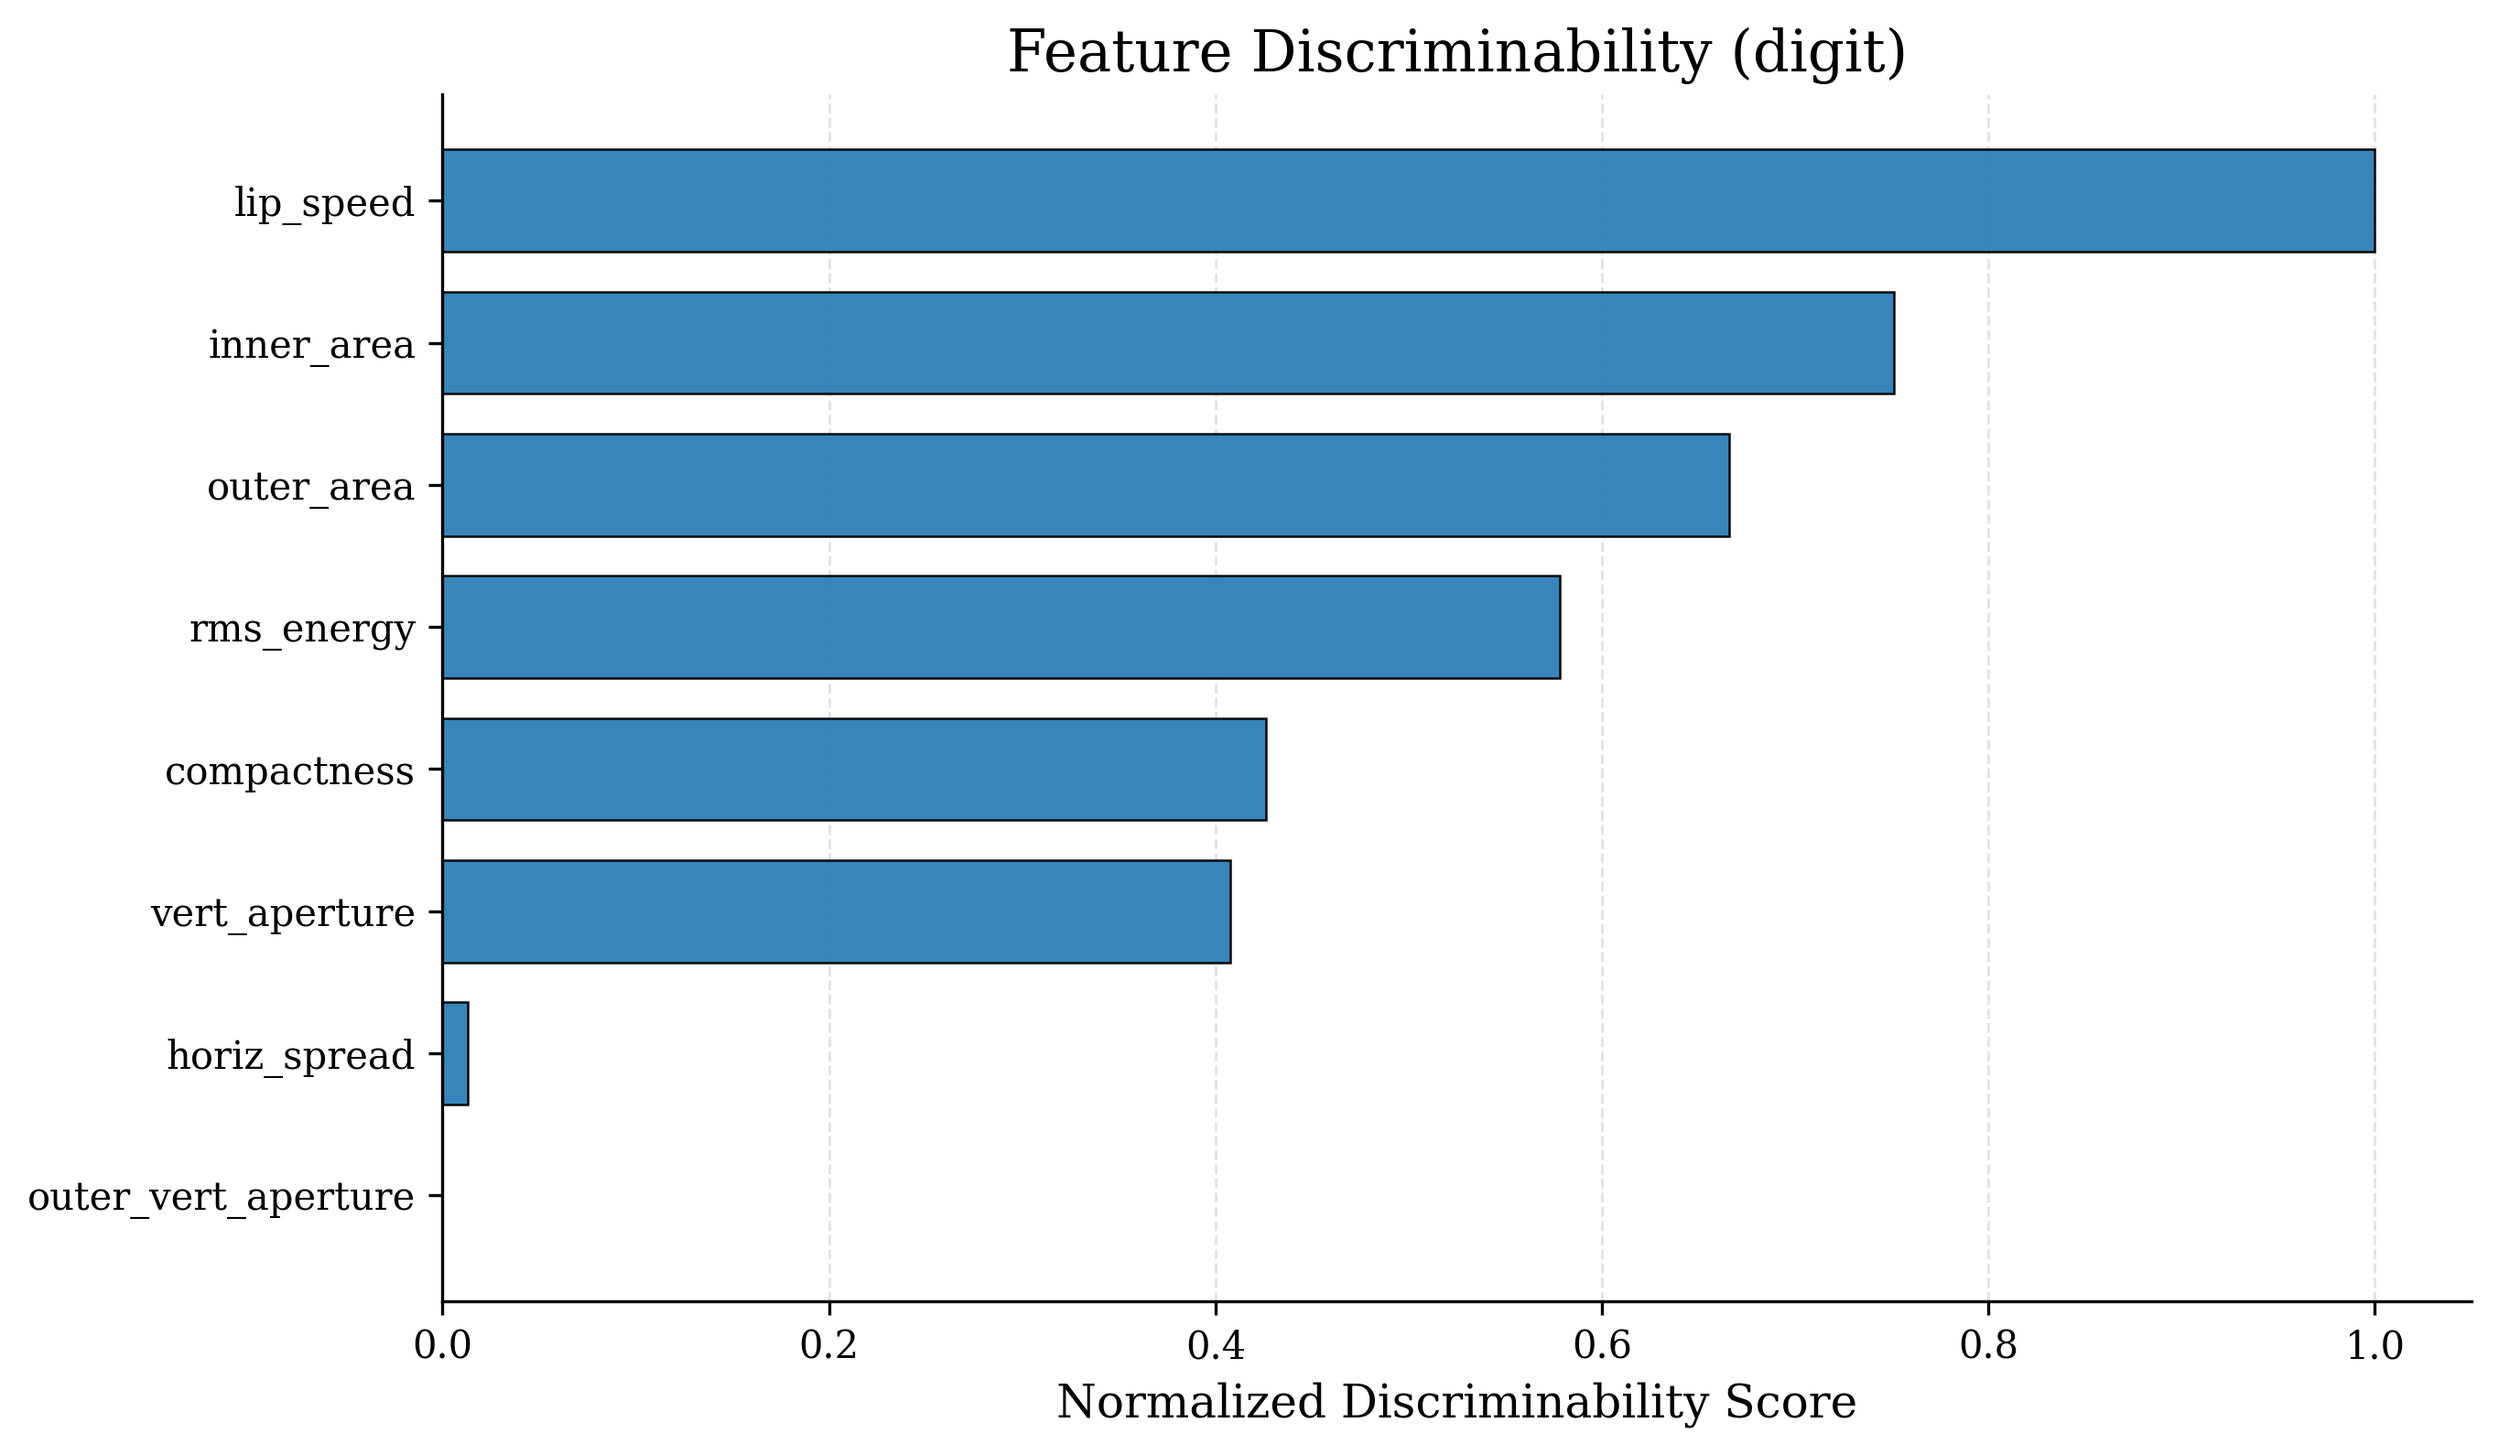
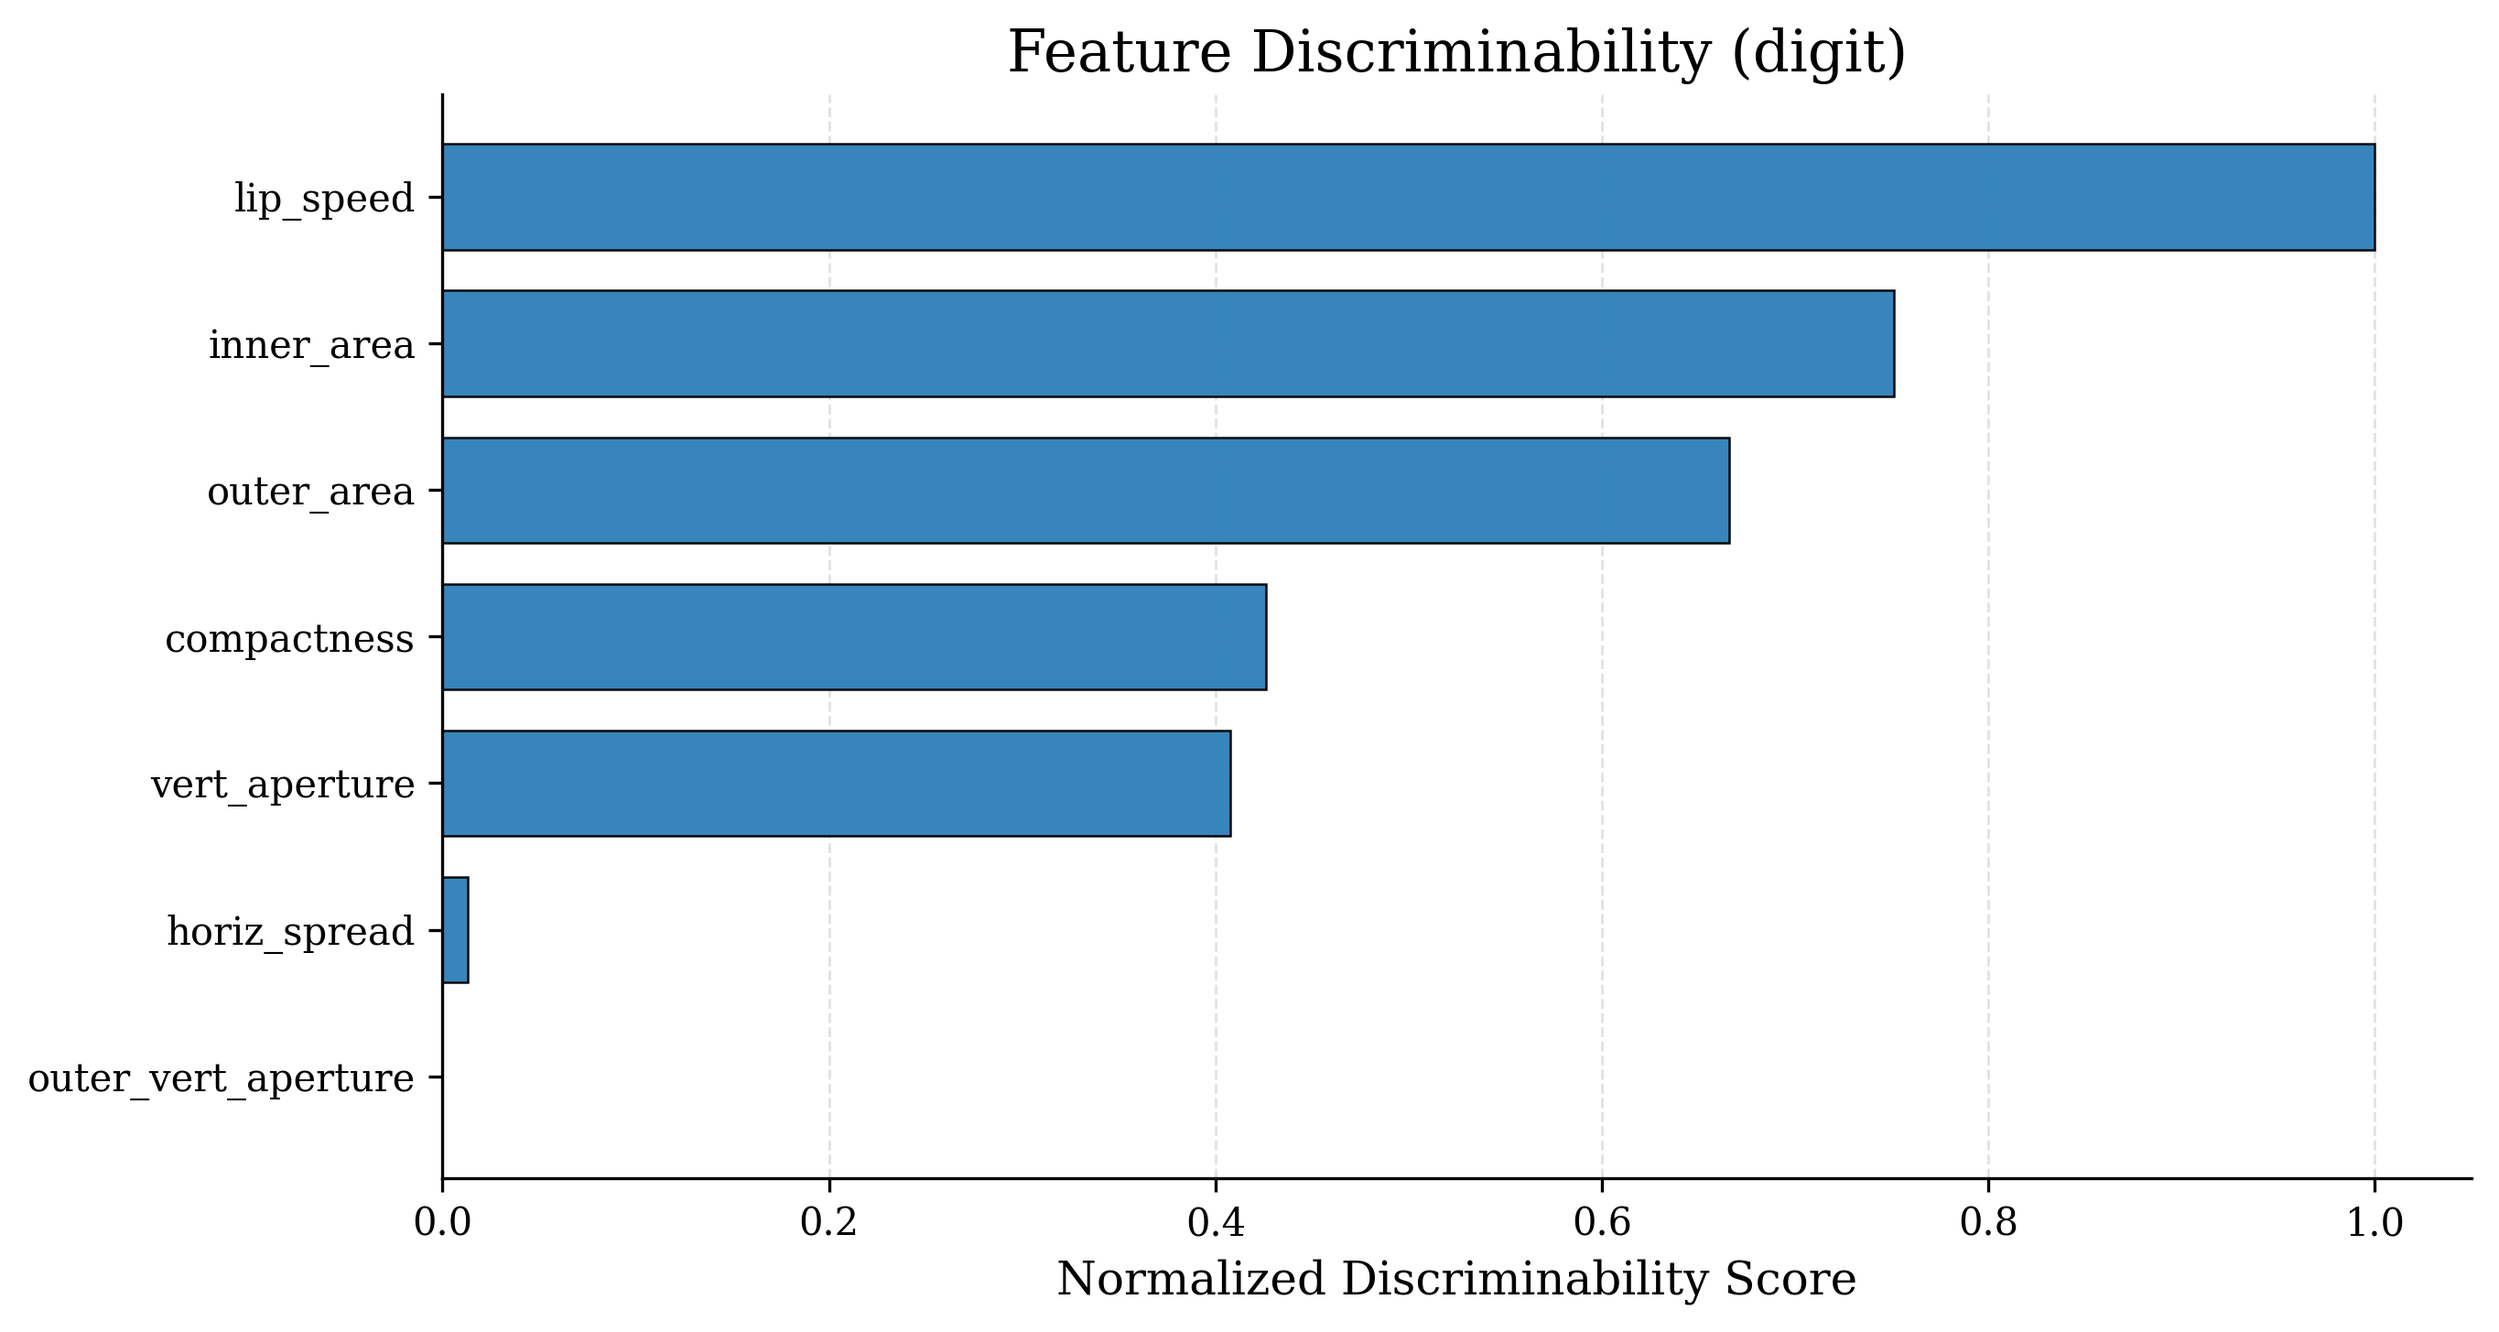
FDR

diff --git a/feature_discriminability.py b/feature_discriminability.py
@@ -34,7 +34,7 @@ DEVICE = torch.device('cuda' if torch.cuda.is_available() else
 # 1. Fisher Discriminant Ratio
 # ---------------------------------------------------------------------------
 
-def fisher_discriminant_ratio(segments_by_digit):
+def fisher_discriminant_ratio(segments_by_digit, n_features=None):
     """
     For each feature, compute FDR = between-class variance / within-class variance.
     segments_by_digit: dict {digit_idx: list of (T, N_FEATURES) arrays}
@@ -49,10 +49,18 @@ def fisher_discriminant_ratio(segments_by_digit):
     for d in all_classes:
         segs = segments_by_digit[d]
         # Summarise each segment by temporal mean only: (N, N_FEATURES)
-        X = np.stack([s.mean(axis=0) for s in segs])   # (N, N_FEATURES)
+        rows = [_segment_to_feature_vector(s, target_dim=n_features) for s in segs]
+        rows = [r for r in rows if r.size > 0]
+        if not rows:
+            continue
+        X = np.stack(rows)   # (N, N_FEATURES)
         class_means[d]  = X.mean(axis=0)
         class_vars[d]   = X.var(axis=0)
         class_counts[d] = len(X)
+
+    all_classes = [d for d in all_classes if d in class_counts]
+    if not all_classes:
+        raise RuntimeError('No valid segments were found to compute Fisher Discriminant Ratio.')
 
     n_total = sum(class_counts.values())
     global_mean = sum(class_counts[d] * class_means[d] for d in all_classes) / n_total
@@ -64,6 +72,33 @@ def fisher_discriminant_ratio(segments_by_digit):
 
     fdr = between / (within + 1e-12)
     return fdr   # (N_FEATURES,)
+
+
+def _adapt_np_feature_dim(x, target_dim):
+    """Slice or zero-pad the last axis of a NumPy array to target_dim."""
+    x = np.asarray(x)
+    current_dim = x.shape[-1]
+    if current_dim == target_dim:
+        return x
+    if current_dim > target_dim:
+        return x[..., :target_dim]
+    pad_shape = list(x.shape)
+    pad_shape[-1] = target_dim - current_dim
+    pad = np.zeros(pad_shape, dtype=x.dtype)
+    return np.concatenate([x, pad], axis=-1)
+
+
+def _segment_to_feature_vector(segment, target_dim=None):
+    """Convert a segment to a 1D feature vector, optionally adapting width."""
+    arr = np.asarray(segment)
+    if arr.ndim == 1:
+        vec = arr
+    else:
+        vec = arr.mean(axis=0)
+    vec = np.asarray(vec).reshape(-1)
+    if target_dim is not None:
+        vec = _adapt_np_feature_dim(vec, target_dim)
+    return vec
 
 
 # ---------------------------------------------------------------------------
@@ -79,7 +114,17 @@ def mutual_information(segments_by_digit, n_features):
     X_rows, y_rows = [], []
     for digit, segs in sorted(segments_by_digit.items()):
         for s in segs:
-            row = np.concatenate([s.mean(axis=0), s.std(axis=0)])  # (2*N_FEATURES,)
+            arr = np.asarray(s)
+            if arr.ndim == 1:
+                mean_v = np.asarray(arr).reshape(-1)
+                std_v = np.zeros_like(mean_v)
+            else:
+                mean_v = np.asarray(arr.mean(axis=0)).reshape(-1)
+                std_v = np.asarray(arr.std(axis=0)).reshape(-1)
+
+            mean_v = _adapt_np_feature_dim(mean_v, n_features)
+            std_v = _adapt_np_feature_dim(std_v, n_features)
+            row = np.concatenate([mean_v, std_v])  # (2*N_FEATURES,)
             X_rows.append(row)
             y_rows.append(digit)
 
@@ -395,7 +440,7 @@ if __name__ == '__main__':
     n_segs = sum(len(v) for v in by_digit.values())
     print(f"  {n_segs} digit segments across {n_classes} classes")
 
-    fdr = fisher_discriminant_ratio(by_digit)
+    fdr = fisher_discriminant_ratio(by_digit, n_features=n_features)
     print_ranking(fdr, feature_names, "Fisher Discriminant Ratio (higher = more separable)")
 
     mi = mutual_information(by_digit, n_features)
@@ -495,16 +540,24 @@ if __name__ == '__main__':
 
     plot_dir = os.path.join(args.plot_root, args.dataset)
     saved_paths = []
-    for metric_name, metric_scores in scores_for_plot.items():
-        p = plot_single_metric_bar(
-            feature_names=feature_names,
-            scores=metric_scores,
-            metric_name=metric_name,
-            output_dir=plot_dir,
-            dataset=args.dataset,
-            top_k=args.plot_top_k,
-        )
-        saved_paths.append(p)
+for metric_name, metric_scores in scores_for_plot.items():
+    names_for_plot = feature_names
+    scores_for_plot_this_metric = metric_scores
+
+    if metric_name == 'Fisher Ratio':
+        keep_idx = [i for i, n in enumerate(feature_names) if n != 'rms_energy']
+        names_for_plot = [feature_names[i] for i in keep_idx]
+        scores_for_plot_this_metric = np.asarray(metric_scores)[keep_idx]
+
+    p = plot_single_metric_bar(
+        feature_names=names_for_plot,
+        scores=scores_for_plot_this_metric,
+        metric_name=metric_name,
+        output_dir=plot_dir,
+        dataset=args.dataset,
+        top_k=args.plot_top_k,
+    )
+    saved_paths.append(p)
 
     print("\nSaved publication-style charts:")
     for p in saved_paths:

diff --git a/visualize_data.py b/visualize_data.py
@@ -33,6 +33,22 @@ def get_feature_names(data, n_features):
     return [prettify_feature_name(n) for n in DEFAULT_FEATURE_NAMES[:n_features]]
 
 
+def get_plot_feature_selection(data, n_features, exclude_names=None):
+    """Return (indices, pretty_names) for features to visualize."""
+    if exclude_names is None:
+        exclude_names = set()
+    exclude_names = {str(n).strip().lower() for n in exclude_names}
+
+    if 'feature_names' in data:
+        raw_names = [str(n) for n in data['feature_names'].tolist()[:n_features]]
+    else:
+        raw_names = DEFAULT_FEATURE_NAMES[:n_features]
+
+    indices = [i for i, name in enumerate(raw_names) if str(name).strip().lower() not in exclude_names]
+    names = [prettify_feature_name(raw_names[i]) for i in indices]
+    return indices, names
+
+
 def plot_sample(
     full_features,
     token_segments,
@@ -124,7 +140,7 @@ def plot_token_segments_grid(token_segments, token_sequence, speaker, video_id, 
     return fig
 
 
-def plot_token_comparison(data, token, feature_names, max_samples=10, token_label='token'):
+def plot_token_comparison(data, token, feature_names, feature_indices=None, max_samples=10, token_label='token'):
     """Compare the same token across different videos/speakers."""
     matches = []
     for i in range(len(data['digit_sequences'])):
@@ -142,6 +158,8 @@ def plot_token_comparison(data, token, feature_names, max_samples=10, token_labe
         return None
 
     n_features = len(feature_names)
+    if feature_indices is None:
+        feature_indices = list(range(n_features))
     fig, axes = plt.subplots(n_features, 1, figsize=(12, 8), sharex=False)
     if n_features == 1:
         axes = np.array([axes])
@@ -152,7 +170,8 @@ def plot_token_comparison(data, token, feature_names, max_samples=10, token_labe
         t = np.arange(len(seg)) / fps
         color = plt.cm.tab10(m_idx / max_samples)
         for f_idx in range(n_features):
-            axes[f_idx].plot(t, seg[:, f_idx], color=color, alpha=0.7, linewidth=1,
+            src_idx = feature_indices[f_idx]
+            axes[f_idx].plot(t, seg[:, src_idx], color=color, alpha=0.7, linewidth=1,
                              label=f'spk {speaker}' if f_idx == 0 else None)
             axes[f_idx].set_ylabel(feature_names[f_idx], fontsize=9)
             axes[f_idx].grid(True, alpha=0.3)
@@ -189,10 +208,22 @@ if __name__ == '__main__':
 
     data = np.load(npz_path, allow_pickle=True)
     n_features = data['full_features'][0].shape[1]
-    feature_names = get_feature_names(data, n_features)
+    feature_indices, feature_names = get_plot_feature_selection(
+        data,
+        n_features,
+        exclude_names={'rms_energy'},
+    )
+    if not feature_indices:
+        print('ERROR: no features left to plot after exclusions.')
+        exit(1)
+
+    plot_n_features = len(feature_names)
     token_label = 'Digit' if args.dataset == 'digit' else 'Token'
     n_videos = len(data['digit_segments'])
-    print(f"Loaded {args.dataset}/{args.split} set: {n_videos} videos ({n_features} features)")
+    print(
+        f"Loaded {args.dataset}/{args.split} set: {n_videos} videos "
+        f"({plot_n_features}/{n_features} features plotted; excluded: rms_energy)"
+    )
 
     out_dir = os.path.join('plots', args.dataset)
     if args.save:
@@ -218,12 +249,15 @@ if __name__ == '__main__':
               f"frames={full_feat.shape[0]}, fps={fps}")
 
         # Plot 1: Full video with token segment overlay
-        fig, axes = plt.subplots(n_features, 1, figsize=(14, max(8, 1.6 * n_features)), sharex=True)
-        if n_features == 1:
+        full_feat_plot = full_feat[:, feature_indices]
+        segs_plot = [seg[:, feature_indices] for seg in segs]
+
+        fig, axes = plt.subplots(plot_n_features, 1, figsize=(14, max(8, 1.6 * plot_n_features)), sharex=True)
+        if plot_n_features == 1:
             axes = np.array([axes])
         plot_sample(
-            full_feat,
-            segs,
+            full_feat_plot,
+            segs_plot,
             digits,
             speaker,
             vid_id,
@@ -243,7 +277,7 @@ if __name__ == '__main__':
 
         # Plot 2: Per-token grid
         fig2 = plot_token_segments_grid(
-            segs,
+            segs_plot,
             digits,
             speaker,
             vid_id,
@@ -265,6 +299,7 @@ if __name__ == '__main__':
             data,
             args.digit,
             feature_names=feature_names,
+            feature_indices=feature_indices,
             token_label=token_label.lower(),
         )
         if fig3:

diff --git a/inference.py b/inference.py
@@ -267,23 +267,30 @@ def segment_by_time(features, alignments, num_frames):
     return segments
 
 
-def segment_by_aperture(features, n_digits, fps, smooth_window=3):
+def segment_by_lip_speed(features, n_digits, fps, smooth_window=3):
     """
     Automatically segment a video into n_digits intervals by detecting
-    local minima in vertical aperture (feature 0) — the mouth closes
-    between digits. Picks the n_digits-1 deepest minima as boundaries.
+    local minima in lip speed (feature 6) — transitions between tokens
+    tend to occur near movement slowdowns. Picks the n_digits-1 lowest
+    minima as boundaries.
     """
     from scipy.signal import savgol_filter, argrelmin
 
-    aperture = features[:, 0]
-    T = len(aperture)
+    if features.shape[1] > 6:
+        lip_speed = features[:, 6]
+    else:
+        vv = np.gradient(features[:, 0])
+        hv = np.gradient(features[:, 2])
+        lip_speed = np.sqrt(vv ** 2 + hv ** 2)
+
+    T = len(lip_speed)
 
     # Smooth to suppress within-digit noise (window must be odd)
     win = smooth_window if smooth_window % 2 == 1 else smooth_window + 1
     win = min(win, T if T % 2 == 1 else T - 1)
-    smoothed = savgol_filter(aperture, window_length=win, polyorder=1) if T > win else aperture
+    smoothed = savgol_filter(lip_speed, window_length=win, polyorder=1) if T > win else lip_speed
 
-    # Find all local minima at order=1 (most sensitive), then pick deepest n_digits-1
+    # Find all local minima at order=1 (most sensitive), then pick lowest n_digits-1
     minima_idx = argrelmin(smoothed, order=1)[0]
 
     if len(minima_idx) >= n_digits - 1:
@@ -568,13 +575,13 @@ if __name__ == '__main__':
                 print('ERROR: seq2seq inference needs --lab or --n_digits to define segmentation length')
                 exit(1)
             n_digits = args.n_digits
-            print(f"  No .lab provided — auto-segmenting by lip aperture minima...")
-            segments = segment_by_aperture(features, n_digits, fps)
+            print(f"  No .lab provided — auto-segmenting by lip speed minima...")
+            segments = segment_by_lip_speed(features, n_digits, fps)
         else:
             tokens = args.digits.strip().split()
             n_digits = len(tokens)
-            print(f"  No .lab provided — auto-segmenting by lip aperture minima...")
-            segments = segment_by_aperture(features, n_digits, fps)
+            print(f"  No .lab provided — auto-segmenting by lip speed minima...")
+            segments = segment_by_lip_speed(features, n_digits, fps)
             print(f"  Tokens: {' '.join(tokens)}")
 
     n_features = infer_input_feature_dim(state_dict)

diff --git a/train.py b/train.py
@@ -26,7 +26,7 @@ os.makedirs(MODEL_ROOT, exist_ok=True)
 
 # Hyperparameters
 MAX_SEQ_LEN = 30        # max frames per digit segment (pad/truncate)
-N_FEATURES = 8          # 7 lip features + rms_energy per frame
+N_FEATURES = 7          # 7 lip features  per frame
 EMBED_DIM = 64          # embedding dimension
 HIDDEN_DIM = 128        # GRU hidden dimension
 BATCH_SIZE = 64
